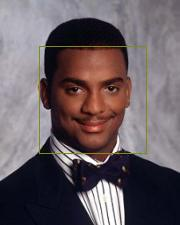
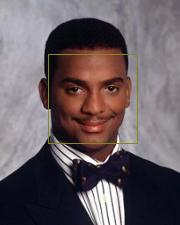
moar reliable detection

Changed region(s): [[0.1944, 0.1867, 0.8333, 0.6844]]

diff --git a/facial.php b/facial.php
@@ -6,7 +6,7 @@
 /** usage: facial.php [path=images] [cascade=cascades/default.xml] **/
 
 $path    = @realpath($argv[1] ?: "images");
-$cascade = @cascade($argv[2] ?: "cascades/default.xml");
+$cascade = @cascade($argv[2]  ?: "cascades/default.xml");
 
 foreach (glob("{$path}/*.jpg") as $image) {
 	if (preg_match("~/face-~", $image)) {
@@ -15,10 +15,20 @@ foreach (glob("{$path}/*.jpg") as $image) {
 	
 	$base    = basename($image);
 	$size    = getimagesize($image);
+	
+	$faces   = faces($cascade, $image, $size[0], $size[1]);
+
+	if (!$faces) {
+		printf("[F]: no faces found in %s\n", $image);
+		continue;
+	}
+
+	printf("[P]: %d faces found in %s\n", count($faces), $image);
+
 	$copy    = imagecreatefromjpeg($image);
 	$green   = imagecolorallocate($copy, 132, 135, 28);
 
-	foreach (faces($cascade, $image, $size[0], $size[1]) as $face) {
+	foreach ($faces as $face) {
 		imagerectangle($copy, 
 			$face["x"],
 			$face["y"],

diff --git a/facial.c b/facial.c
@@ -98,7 +98,7 @@ PHP_FUNCTION(faces)
 		return;
 	}
 	
-	faces = cvHaarDetectObjects(img, cascade, storage, 1.1, 3, 0, cvSize(100,100), cvSize(zwidth, zheight));
+	faces = cvHaarDetectObjects(img, cascade, storage, 1.1, 2, 0, cvSize(60,60), cvSize(zwidth, zheight));
 
 	if (!faces->total) {
 		return;
